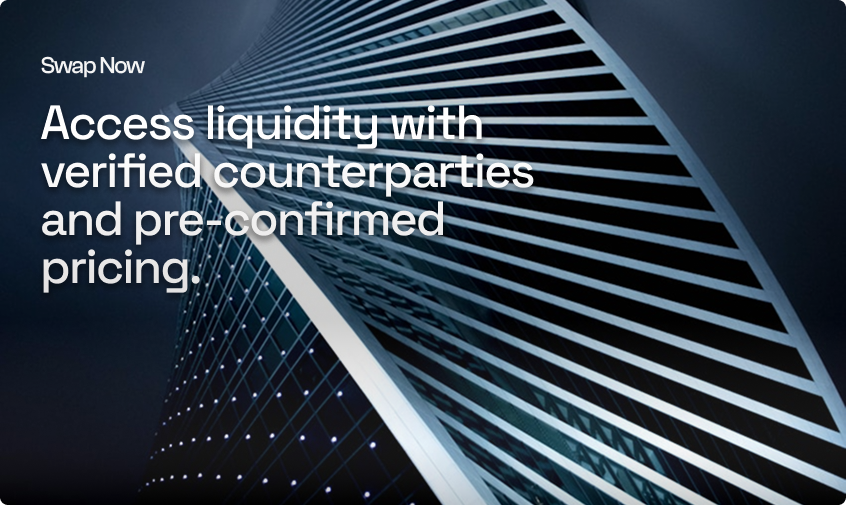
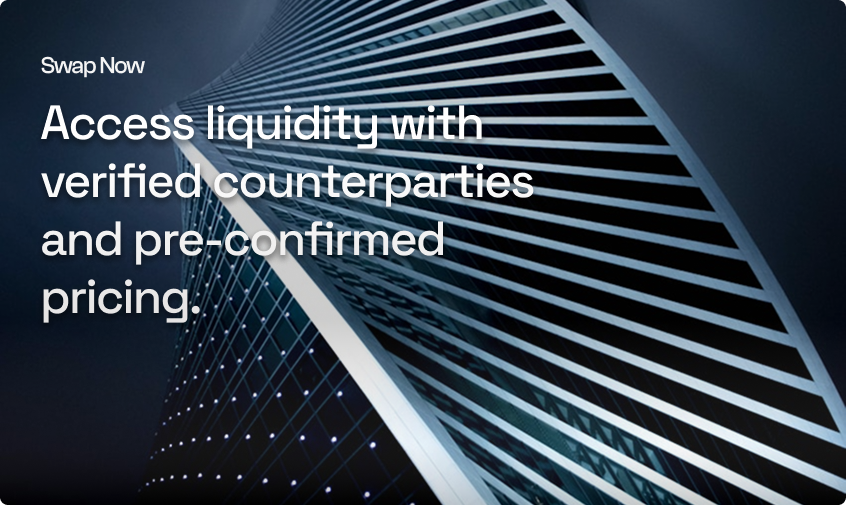
UI updates and section fixes and images updated

Changed region(s): [[0.0307, 0.297, 0.6454, 0.6535]]

diff --git a/app/components/FooterSection.tsx b/app/components/FooterSection.tsx
@@ -48,13 +48,13 @@ export default function FooterSection() {
             </button>
           
       {/* LOGO SECTION */}
-<div className="relative w-full mt-6 sm:mt-10 -mb-32 sm:-mb-48 lg:-mb-76 ">
+<div className="relative w-full mt-10 sm:mt-16 -mb-40 sm:-mb-56 lg:-mb-80">
 
   {/* BLUE BACKGROUND */}
 <div
   className="absolute left-1/2 -translate-x-1/2
              w-screen
-             top-0
+             -top-6 sm:-top-10 lg:-top-16
              h-[120px] sm:h-[420px] lg:h-[530px]">
   <Image
     src="/images/footer-bg1.png"
@@ -68,7 +68,7 @@ export default function FooterSection() {
 
   {/* LOGO */}
   <div className="relative w-full 
-                  h-[220px] sm:h-[420px] lg:h-[530px]
+                  h-[220px] sm:h-[420px] lg:h-[530px] -top-6 sm:-top-14 lg:-top-12
                   flex justify-center items-center">
     <Image
       src="/images/footer-bg.png"
@@ -78,20 +78,12 @@ export default function FooterSection() {
       priority
     />
   </div>
-
 </div>
 </div>
-
-  
-
 </div>
-
-
-
-
       {/* ================= BOTTOM BAR ================= */}
       <div className="border-t border-white/10">
-        <div className="max-w-7xl mx-auto px-6 py-6">
+        <div className="max-w-7xl mx-auto px-4 py-4">
           <div className="flex flex-col sm:flex-row gap-6 text-sm text-white/60">
             <span>@2026. CurrenSea. All right reserved.</span>
           </div>

diff --git a/app/components/StatsSection.tsx b/app/components/StatsSection.tsx
@@ -153,17 +153,17 @@ export default function StatsSection() {
           {/* Big Logo */}
           <div className="absolute inset-0 flex items-center justify-center z-0">
             <Image
-              src="/images/logo-s.png"
+              src="/images/statsSection-herocard.png"
               alt="Logo"
               width={380}
               height={380}
-              className="object-contain opacity-60 scale-75 md:scale-90 lg:scale-100"
+              className="object-contain opacity-60 scale-75 md:scale-90 lg:scale-100 -translate-y-10"
             />
           </div>
 
           {/* Content Overlay */}
           <div className=" relative z-10 h-full flex flex-col justify-end items-center text-center p-6 md:p-8 lg:p-10 pt-[60%]">
-            <p  style={{ fontFamily: "var(--font-mona)" }} className="leading-[32.22px] tracking-[-0.43px] text-center text-[#D3D8E9]
+            <p  style={{ fontFamily: "var(--font-mona)" }} className=" text-center text-[#D3D8E9]
  p-4 rounded-lg max-w-[320px] mx-auto">
               Experience OTC trading the way it should be transparent,
               efficient, and built for scale.

diff --git a/app/components/TopSection.tsx b/app/components/TopSection.tsx
@@ -68,15 +68,10 @@ export default function TopSection() {
     lg:text-[70px]
     leading-[110%]
     tracking-[-0.04em]
-    bg-gradient-to-r
-    from-[#EDEEF0]
-    to-[rgba(237,238,240,0.8)]
-    text-[#EDEEF0]
-    bg-clip-text
-    text-transparent
+    text-white
+    [text-shadow:0px_8px_40px_rgba(0,0,0,0.7)]
     max-w-[1000px]
     mx-auto
-    
   "
 >
   Buy Crypto Instantly <br />
@@ -102,8 +97,8 @@ export default function TopSection() {
 ">Enjoy direct settlement without any middlemen involved.</span>
             </p>
 
-           {/* BUTTON 
-            <button className="mt-2 px-4 py-3 
+           {/* BUTTON */}
+            <button className="mt-10 px-4 py-3 
                                bg-white text-black
                                inline-flex items-center
                                rounded-full 
@@ -120,7 +115,7 @@ export default function TopSection() {
                   />
             </button>
           
-         */}
+         
 
           </div>
 

diff --git a/app/components/SecureSection.tsx b/app/components/SecureSection.tsx
@@ -144,10 +144,16 @@ export default function SecureSection() {
                   </div>
                 </div>
 
-                <h1  style={{ fontFamily: "var(--font-mona)" }} className="text-[36px] sm:text-[20px] font-medium min-h-[48px] sm:min-h-[64px] text-center text-[#FFFFFF]
-  line-clamp-2 mb-4  whitespace-pre-line">
-                  {card.title}
-                </h1>
+                <h1
+  style={{ fontFamily: "var(--font-mona)" }}
+  className="
+    text-[20px]           
+    sm:text-[28px]        
+    md:text-[32px]
+    lg:text-[36px]        
+    font-medium min-h-[48px] sm:min-h-[64px] text-center text-white line-clamp-2 mb-4 whitespace-pre-line">
+  {card.title}
+</h1>
 
                 <div className="w-[150px] h-[1px] sm:w-[180px] lg:w-[220px]  bg-gradient-to-r from-transparent via-white/15 to-transparent mx-auto mb-4" />
 

diff --git a/app/components/FeaturesSection.tsx b/app/components/FeaturesSection.tsx
@@ -122,18 +122,6 @@ export default function FeatureSection() {
           ))}
 
         </motion.div>
-
-        {/* PAGINATION */}
-        <div className="flex items-center justify-center gap-2 mt-2 text-xs md:text-sm text-white tracking-widest border border-white/10 bg-[#020202] rounded-lg px-4 py-2 w-fit mx-auto">
-          <span>01</span>
-          <span className="hidden md:inline">::::::::::::::::::::</span>
-          <span className="inline md:hidden">:::::::::</span>
-          <span>02</span>
-          <span className="hidden md:inline">::::::::::::::::::::</span>
-          <span className="inline md:hidden">:::::::::</span>
-          <span>03</span>
-        </div>
-
       </div>
     </section>
   );

diff --git a/app/components/LiquidityProviderSection.tsx b/app/components/LiquidityProviderSection.tsx
@@ -23,7 +23,7 @@ export default function LiquidityProviderSection() {
               LARGE TRADES
             </h2>
 
-            <p style={{ fontFamily: "var(--font-mona)"}} className="mt-6 font-medium text-gray-400 text-sm sm:text-base md:text-lg max-w-lg leading-relaxed pb-10">
+            <p style={{ fontFamily: "var(--font-mona)"}} className="mt-6 font-medium text-gray-400 text-base sm:text-base md:text-lg max-w-lg leading-relaxed pb-10">
               Move capital seamlessly between INR and USDT with dedicated liquidity access, controlled pricing, and managed settlement.
 No public order books. No volatility shocks. Just direct execution.
             </p>

diff --git a/app/components/FaqSection.tsx b/app/components/FaqSection.tsx
@@ -71,7 +71,7 @@ export default function FaqSection() {
                 FREQUENTLY <br /> ASKED QUESTIONS
               </h2>
 
-              <p style={{ fontFamily: "var(--font-mona)" }} className="text-white/70 max-w-md text-sm md:text-base leading-relaxed">
+              <p style={{ fontFamily: "var(--font-mona)" }} className="text-white/70 max-w-md text-base md:text-base leading-relaxed">
                 Have questions? Our FAQ section has you covered with quick answers
                 to the most common inquiries.
               </p>

diff --git a/app/components/Header.tsx b/app/components/Header.tsx
@@ -21,7 +21,7 @@ export default function Header() {
    <header
   className={`fixed top-0 left-0 w-full z-50 transition-all duration-300 ${
     scrolled
-      ? "bg-black/90 backdrop-blur-lg shadow-lg border-b border-white/10"
+      ? "bg-black/90 backdrop-blur-lg shadow-lg border-white/10 "
       : "bg-transparent"
   }`}
 >
